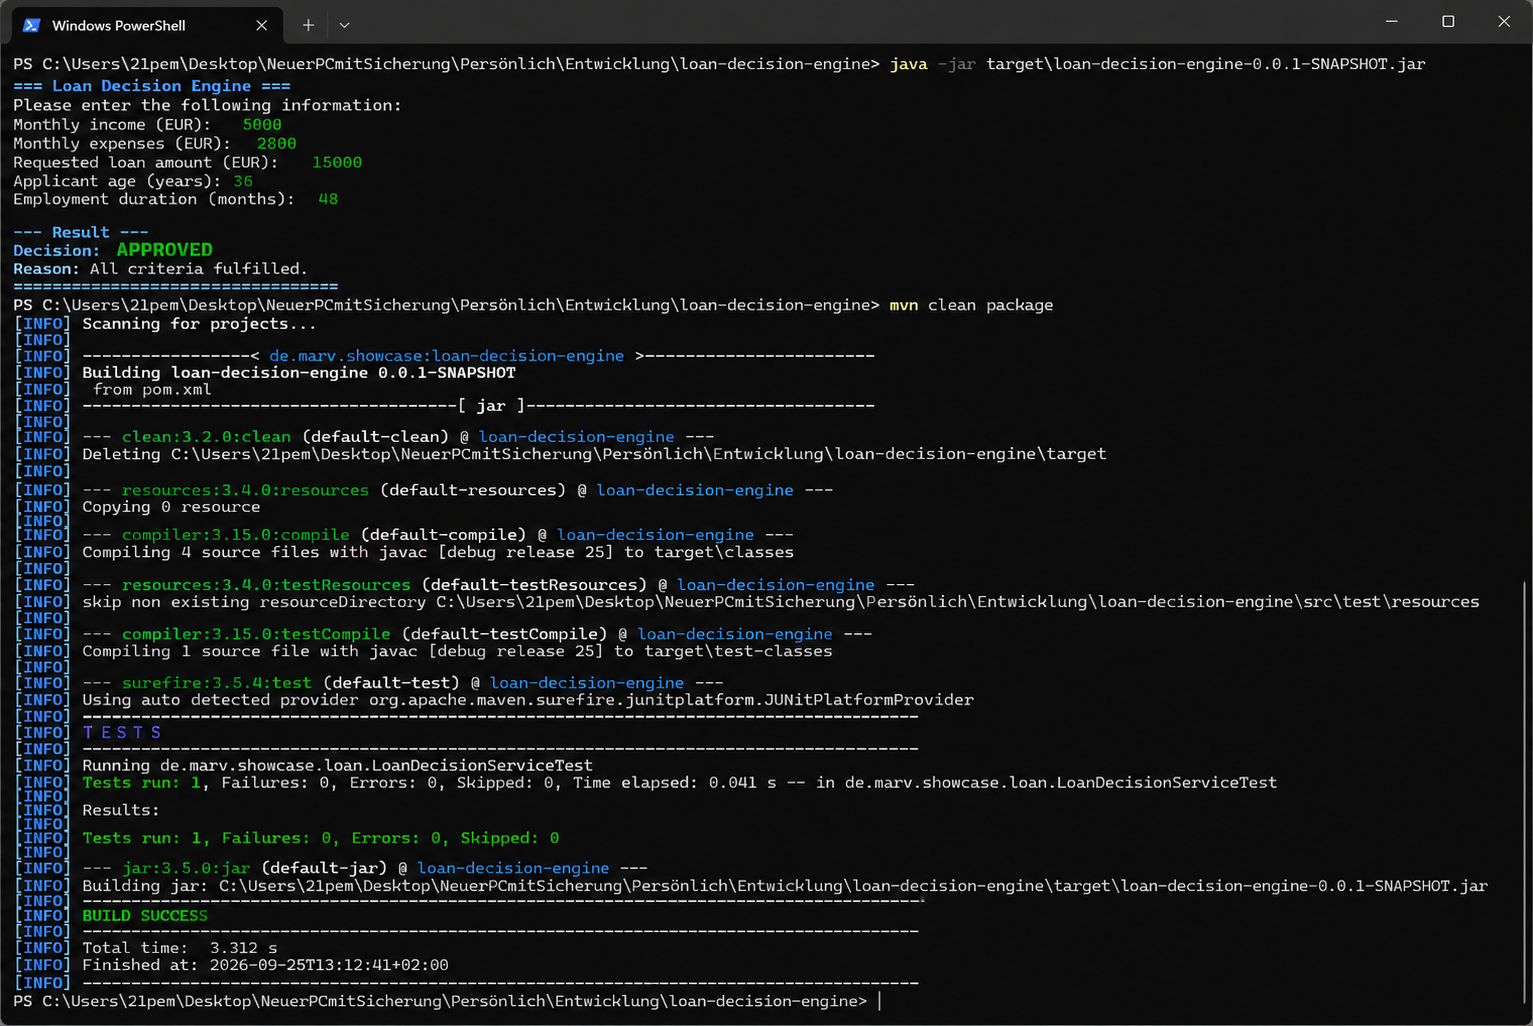
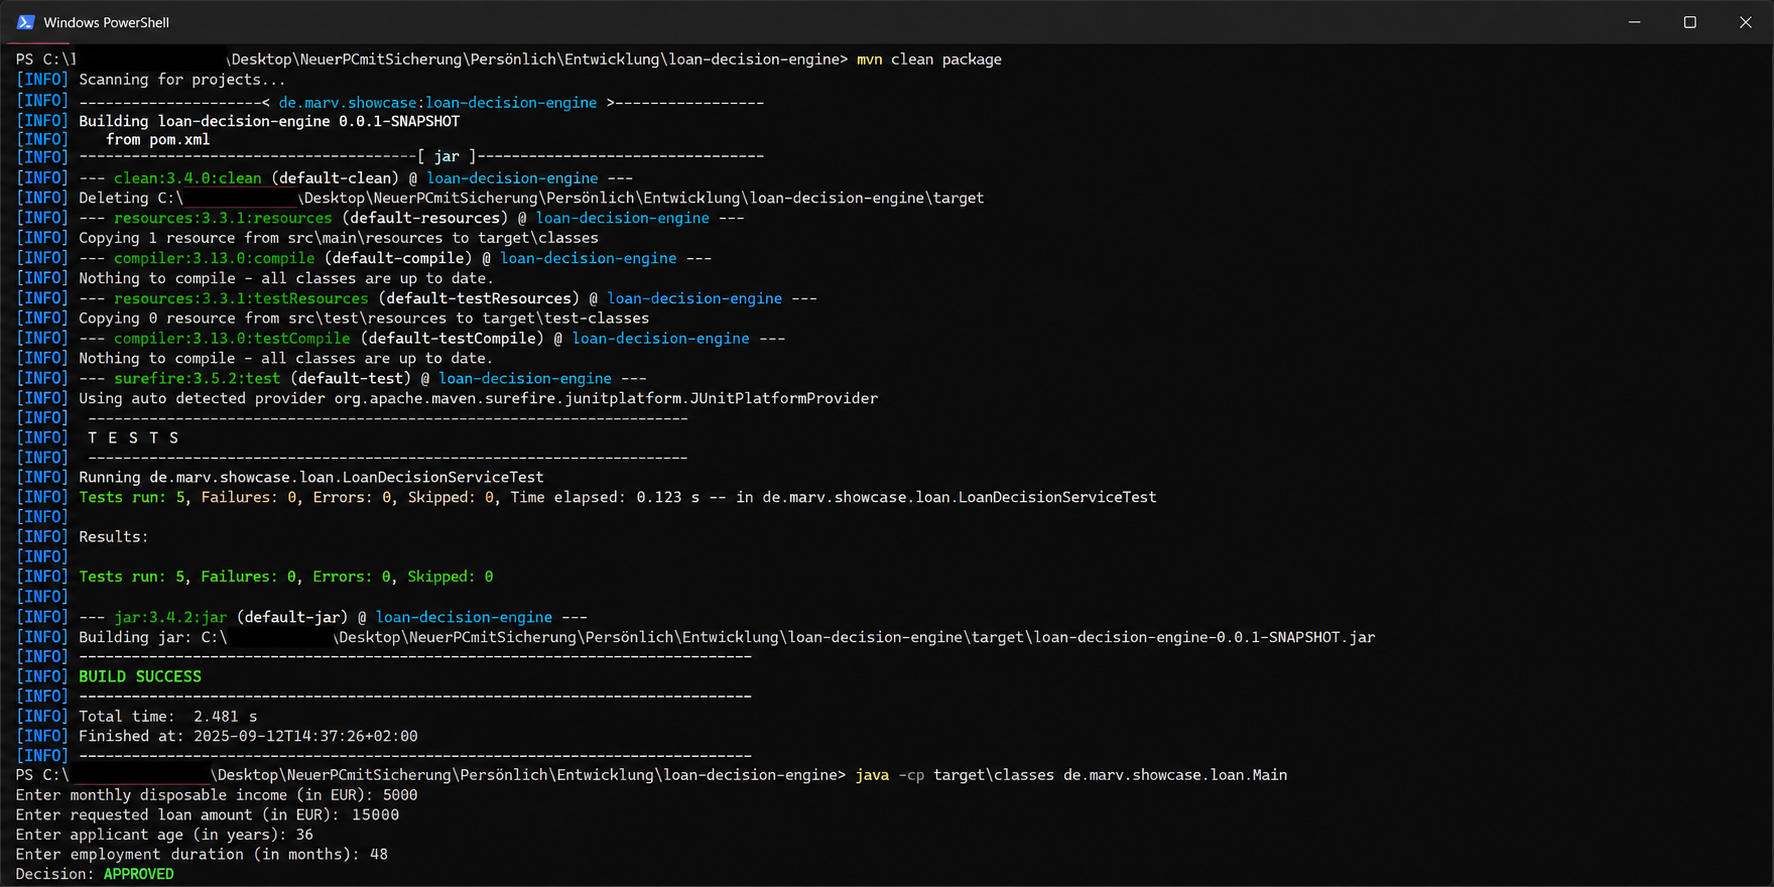
Updatet the Readme and PNG

diff --git a/README.md b/README.md
@@ -52,7 +52,13 @@ Create a clean build including compilation, automated tests, and JAR packaging:
 mvn clean package
 ```
 
-The generated JAR is created in the `target` directory.
+The generated build artifacts are created in the `target` directory.
+
+Run the application from the compiled Maven classes:
+
+```bash
+java -cp target/classes de.marv.showcase.loan.Main
+```
 
 ## Demo
 
